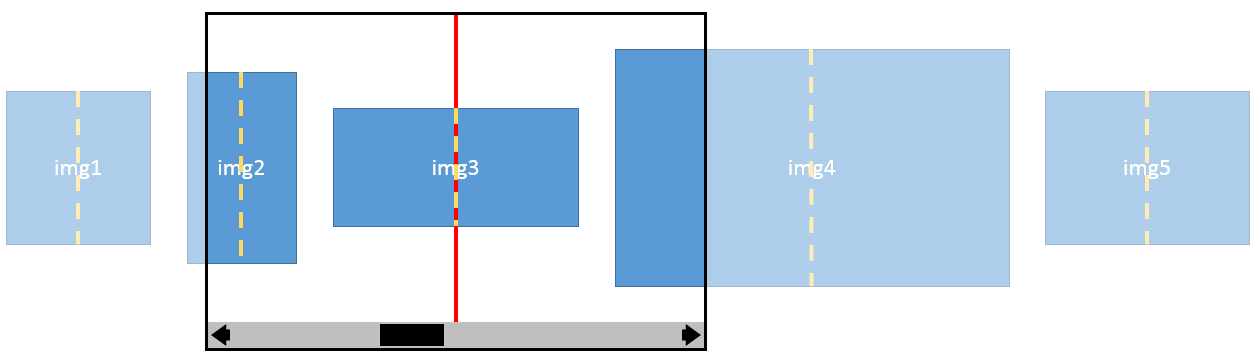
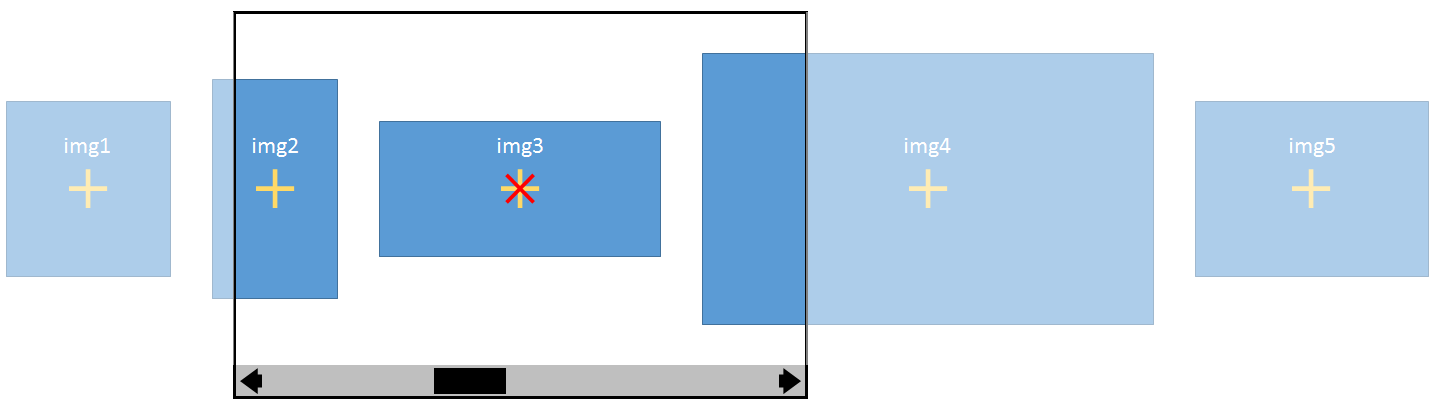
[css-snappoints] Add Example 3, update diagrams for single coordinate property

diff --git a/css-snappoints/Overview.html b/css-snappoints/Overview.html
@@ -54,7 +54,7 @@
 </p>
   <h1 class="p-name no-ref" id=title>CSS Scroll Snap Points Module Level 1</h1>
   <h2 class="no-num no-toc no-ref heading settled heading" id=subtitle><span class=content>Editor’s Draft,
-    <span class=dt-updated><span class=value-title title=20140228>28 February 2014</span></span></span></h2>
+    <span class=dt-updated><span class=value-title title=20140301>1 March 2014</span></span></span></h2>
   <div data-fill-with=spec-metadata><dl><dt>This version:<dd><a class=u-url href=http://dev.w3.org/csswg/css-snappoints/>http://dev.w3.org/csswg/css-snappoints/</a><dt>Editor’s Draft:<dd><a href=http://dev.w3.org/csswg/css-snappoints/>http://dev.w3.org/csswg/css-snappoints/</a>
     <dt>Feedback:</dt>
         <dd><a href="mailto:www-style@w3.org?subject=%5Bcss-snappoints%5D%20feedback">www-style@w3.org</a>
@@ -195,8 +195,12 @@ on screen, on paper, in speech, etc.</p>
     overflow-x: auto;
     overflow-y: hidden;
     white-space: nowrap;
-    scroll-snap-points-x: snap-interval(0px 100%); /* Sets up points to which scrolling will snap along x-axis */
-    scroll-snap-type: mandatory; /* Requires that scrolling always end at a snap point when the operation completes (hard snap) */
+    /* Sets up points to which scrolling
+       will snap along x-axis */
+    scroll-snap-points-x: snap-interval(0px 100%);
+    /* Requires that scrolling always end at a snap point when
+       the operation completes (hard snap) */
+    scroll-snap-type: mandatory;
 }
 </pre>
         <pre>    &lt;div class="photoGallery"&gt;
@@ -225,24 +229,24 @@ on screen, on paper, in speech, etc.</p>
         will always complete with an image centered in the <a data-link-type=dfn href=#scroll-container title="scroll container">scroll container</a>.
 
         <pre>    img {
-        scroll-snap-coordinate: 50% 50%;
         /* Defines the center of each photo as the
            coordinate that should be used for snapping */
+        scroll-snap-coordinate: 50% 50%;
     }
     .photoGallery {
         width: 500px;
         overflow-x: auto;
         overflow-y: hidden;
         white-space: nowrap;
+        /* Denotes that snap points will be defined
+           by the elements contained within. */
         scroll-snap-points-x: elements;
-        /* Denotes that snap points will be defined by
-           the elements contained within. */
+        /* Specifies that each element’s snap coordinate should
+           align with the center of the scroll container */
         scroll-snap-destination: 50% 50%;
-        /* Specifies that each element’s snap coordinate
-           should align with the center of the scroll container */
-        scroll-snap-type: mandatory;
         /* Requires that scrolling always end at a snap point
-           when the operation completes (hard snap) */
+           when the operation completes (hard snap). */
+        scroll-snap-type: mandatory;
     }
 </pre>
         <pre>    &lt;div class="photoGallery"&gt;
@@ -258,21 +262,61 @@ on screen, on paper, in speech, etc.</p>
 
             <figcaption>
                 The layout of the scroll container’s contents in the example.
-                The snap-destination is horizontally centered within the scroll container
-                (represented by a red line),
-                and each element has its snap coordinate horizontally centered within the element
-                (represented by dashed yellow lines).
+                The snap-destination is horizontally and vertically centered within the scroll container
+                (represented by a red X),
+                and each element has its snap coordinate horizontally and vertically centered within the element
+                (represented by yellow plus signs).
             </figcaption>
         </figure>
+    </div>
 
-        <p class=issue id=issue-5c5bf90c><a class=self-link href=#issue-5c5bf90c></a>
-            Add an example of snapping elements with a slight offset, such that the previous element is allowed to "peek" in from the side.
-        </p>
+    <div class=example>
+        This example builds a paginated document that aligns each page near to (but not exactly on) the edge of the <a data-link-type=dfn href=#scroll-container title="scroll container">scroll container</a>.
+        This allows the previous page to "peek" in from above in order to make the user aware that they are not yet at the top of the document.
+        Using proximity snap points instead of mandatory snap points allows the user to stop halfway through a page (rather than forcing them
+        to snap one page at a time).  However, if a scrolling operation would finish near a snap point, then the scroll will be adjusted to
+        align the page as specified.
 
-        <p class=issue id=issue-f83f9fa0><a class=self-link href=#issue-f83f9fa0></a>
-            What happens in zooming scenarios, e.g. if the images become larger than the viewport?  Snapping makes less sense in this case.  Consider the snap-area stuff below to help solve this.
-        </div>
-    
+        <pre>    .page {
+        /* Defines the top center of each page as the
+           coordinate that should be used for snapping */
+        scroll-snap-coordinate: 50% 0;
+    }
+    .docScroller {
+        width: 500px;
+        overflow-x: hidden;
+        overflow-y: auto;
+        /* Denotes that snap points will be defined
+           by the elements contained within. */
+        scroll-snap-points-y: elements;
+        /* Specifies that each element’s snap coordinate should
+           align with the center of the scroll container, offset
+           a short distance from the top edge. */
+        scroll-snap-destination: 50% 100px;
+         /* Encourages scrolling to end at a snap point when the
+            operation completes, if it is near a snap point */
+        scroll-snap-type: proximity;
+    }
+</pre>
+        <pre>    &lt;div class="docScroller"&gt;
+        &lt;div class="page"&gt;Page 1&lt;/div&gt;
+        &lt;div class="page"&gt;Page 2&lt;/div&gt;
+        &lt;div class="page"&gt;Page 3&lt;/div&gt;
+        &lt;div class="page"&gt;Page 4&lt;/div&gt;
+    &lt;/div&gt;
+</pre>
+        <figure>
+            <img alt="" src=element_snap_points_offset.png>
+
+            <figcaption>
+                The layout of the scroll container’s contents in the example.
+                The snap-destination is horizontally centered and offset 100px from the top edge with respect to the scroll container
+                (represented by a red X),
+                and each element has its snap coordinate horizontally centered and top-aligned with respect to the element
+                (represented by yellow plus signs).
+            </figcaption>
+        </figure>
+    </div>
 
 <h2 class="heading settled heading" data-level=3 id=definitions><span class=secno>3 </span><span class=content>Definitions</span><a class=self-link href=#definitions></a></h2>
 
@@ -311,6 +355,10 @@ on screen, on paper, in speech, etc.</p>
 
     <p class=issue id=issue-bc37a0a2><a class=self-link href=#issue-bc37a0a2></a>
         If we do some behavior like snap-area, what happens when near an edge -- try to align with the edge or not?
+    </p>
+
+    <p class=issue id=issue-fa211d04><a class=self-link href=#issue-fa211d04></a>
+        What happens in zooming scenarios, e.g. if the images become larger than the viewport?  Snapping makes less sense in this case.  Is this addressable with a snap-area type of effect?
     </p>
 
     <p class=issue id=issue-b3745db4><a class=self-link href=#issue-b3745db4></a>
@@ -610,12 +658,6 @@ Property index</span><a class=self-link href=#property-index></a></h2>
 
 
 <h2 class="no-num heading settled" id=issues-index><span class=content>Issues Index</span><a class=self-link href=#issues-index></a></h2><div style="counter-reset: issue"><div class=issue>
-            Add an example of snapping elements with a slight offset, such that the previous element is allowed to "peek" in from the side.
-        <a href=#issue-5c5bf90c> ↵ </a></div>
-
-        <div class=issue>
-            What happens in zooming scenarios, e.g. if the images become larger than the viewport?  Snapping makes less sense in this case.  Consider the snap-area stuff below to help solve this.
-        <a href=#issue-f83f9fa0> ↵ </a></div><div class=issue>
         Could this be defined on a per-snap-point basis?   What does it mean to mix types of snap points within a single scroller?  Alternatively, should this be definable separately for each axis?
     <a href=#issue-c41d98db> ↵ </a></div>
 
@@ -626,6 +668,10 @@ Property index</span><a class=self-link href=#property-index></a></h2>
     <div class=issue>
         If we do some behavior like snap-area, what happens when near an edge -- try to align with the edge or not?
     <a href=#issue-bc37a0a2> ↵ </a></div>
+
+    <div class=issue>
+        What happens in zooming scenarios, e.g. if the images become larger than the viewport?  Snapping makes less sense in this case.  Is this addressable with a snap-area type of effect?
+    <a href=#issue-fa211d04> ↵ </a></div>
 
     <div class=issue>
         Consider naming conventions like in Grid Layout for grouping properties on the container vs. items.

diff --git a/css-snappoints/Overview.src.html b/css-snappoints/Overview.src.html
@@ -73,8 +73,12 @@ Ignored Terms: scroll-snap-points-*
             overflow-x: auto;
             overflow-y: hidden;
             white-space: nowrap;
-            scroll-snap-points-x: snap-interval(0px 100%); /* Sets up points to which scrolling will snap along x-axis */
-            scroll-snap-type: mandatory; /* Requires that scrolling always end at a snap point when the operation completes (hard snap) */
+            /* Sets up points to which scrolling
+               will snap along x-axis */
+            scroll-snap-points-x: snap-interval(0px 100%);
+            /* Requires that scrolling always end at a snap point when
+               the operation completes (hard snap) */
+            scroll-snap-type: mandatory;
         }
         </pre>
 
@@ -107,24 +111,24 @@ Ignored Terms: scroll-snap-points-*
 
         <pre>
             img {
-                scroll-snap-coordinate: 50% 50%;
                 /* Defines the center of each photo as the
                    coordinate that should be used for snapping */
+                scroll-snap-coordinate: 50% 50%;
             }
             .photoGallery {
                 width: 500px;
                 overflow-x: auto;
                 overflow-y: hidden;
                 white-space: nowrap;
+                /* Denotes that snap points will be defined
+                   by the elements contained within. */
                 scroll-snap-points-x: elements;
-                /* Denotes that snap points will be defined by
-                   the elements contained within. */
+                /* Specifies that each element's snap coordinate should
+                   align with the center of the scroll container */
                 scroll-snap-destination: 50% 50%;
-                /* Specifies that each element's snap coordinate
-                   should align with the center of the scroll container */
-                scroll-snap-type: mandatory;
                 /* Requires that scrolling always end at a snap point
-                   when the operation completes (hard snap) */
+                   when the operation completes (hard snap). */
+                scroll-snap-type: mandatory;
             }
         </pre>
 
@@ -143,20 +147,64 @@ Ignored Terms: scroll-snap-points-*
 
             <figcaption>
                 The layout of the scroll container's contents in the example.
-                The snap-destination is horizontally centered within the scroll container
-                (represented by a red line),
-                and each element has its snap coordinate horizontally centered within the element
-                (represented by dashed yellow lines).
+                The snap-destination is horizontally and vertically centered within the scroll container
+                (represented by a red X),
+                and each element has its snap coordinate horizontally and vertically centered within the element
+                (represented by yellow plus signs).
             </figcaption>
         </figure>
+    </div>
 
-        <p class="issue">
-            Add an example of snapping elements with a slight offset, such that the previous element is allowed to "peek" in from the side.
-        </p>
+    <div class="example">
+        This example builds a paginated document that aligns each page near to (but not exactly on) the edge of the <a>scroll container</a>.
+        This allows the previous page to "peek" in from above in order to make the user aware that they are not yet at the top of the document.
+        Using proximity snap points instead of mandatory snap points allows the user to stop halfway through a page (rather than forcing them
+        to snap one page at a time).  However, if a scrolling operation would finish near a snap point, then the scroll will be adjusted to
+        align the page as specified.
 
-        <p class="issue">
-            What happens in zooming scenarios, e.g. if the images become larger than the viewport?  Snapping makes less sense in this case.  Consider the snap-area stuff below to help solve this.
-        </div>
+        <pre>
+            .page {
+                /* Defines the top center of each page as the
+                   coordinate that should be used for snapping */
+                scroll-snap-coordinate: 50% 0;
+            }
+            .docScroller {
+                width: 500px;
+                overflow-x: hidden;
+                overflow-y: auto;
+                /* Denotes that snap points will be defined
+                   by the elements contained within. */
+                scroll-snap-points-y: elements;
+                /* Specifies that each element's snap coordinate should
+                   align with the center of the scroll container, offset
+                   a short distance from the top edge. */
+                scroll-snap-destination: 50% 100px;
+                 /* Encourages scrolling to end at a snap point when the
+                    operation completes, if it is near a snap point */
+                scroll-snap-type: proximity;
+            }
+        </pre>
+
+        <pre>
+            &lt;div class="docScroller">
+                &lt;div class="page">Page 1&lt;/div>
+                &lt;div class="page">Page 2&lt;/div>
+                &lt;div class="page">Page 3&lt;/div>
+                &lt;div class="page">Page 4&lt;/div>
+            &lt;/div>
+        </pre>
+
+        <figure>
+            <img src="element_snap_points_offset.png" alt="">
+
+            <figcaption>
+                The layout of the scroll container's contents in the example.
+                The snap-destination is horizontally centered and offset 100px from the top edge with respect to the scroll container
+                (represented by a red X),
+                and each element has its snap coordinate horizontally centered and top-aligned with respect to the element
+                (represented by yellow plus signs).
+            </figcaption>
+        </figure>
     </div>
 
 <h2 id="definitions">Definitions</h2>
@@ -207,6 +255,10 @@ Ignored Terms: scroll-snap-points-*
 
     <p class="issue">
         If we do some behavior like snap-area, what happens when near an edge -- try to align with the edge or not?
+    </p>
+
+    <p class="issue">
+        What happens in zooming scenarios, e.g. if the images become larger than the viewport?  Snapping makes less sense in this case.  Is this addressable with a snap-area type of effect?
     </p>
 
     <p class="issue">
